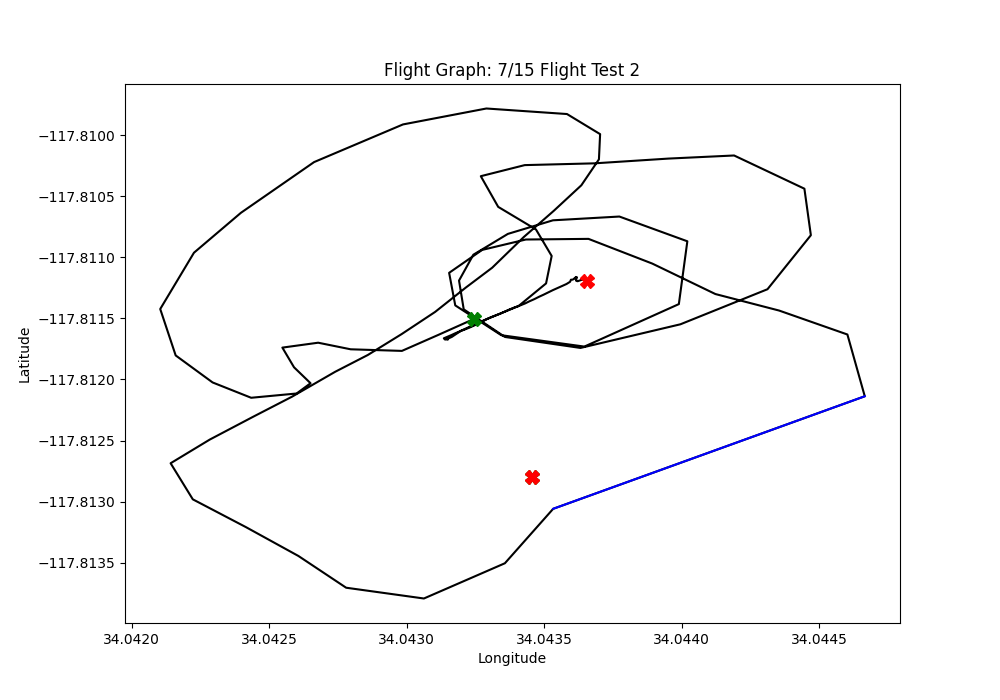
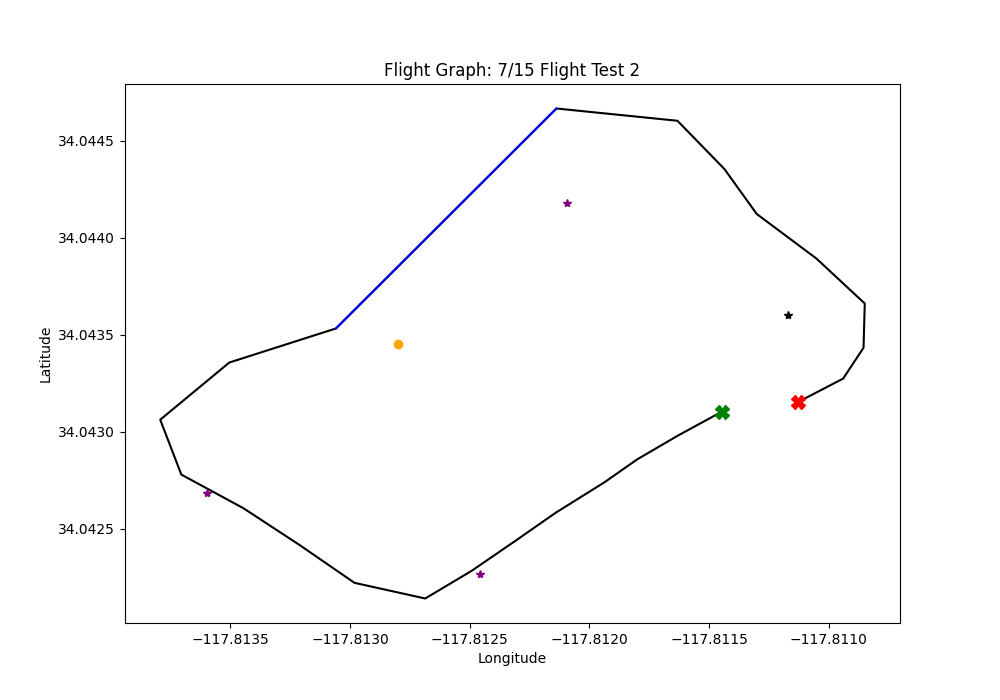
working png

diff --git a/Python GUI/REU_graph.py b/Python GUI/REU_graph.py
@@ -85,38 +85,38 @@ def main(graph_name: str, file_name: str, start: int, end: int):
         all_avoid_x.append(avoid_x)
         all_avoid_y.append(avoid_y)
 
-    ### GENERATE GRAPH IMAGE ###
-    # plt.figure(figsize=(10, 7)) # Window size
+    ## GENERATE GRAPH IMAGE ###
+    plt.figure(figsize=(10, 7)) # Window size
 
-    # # for current vehicle
-    # #plt.scatter(lattitude[1:], longitude[1:], color='black') # Creates scatter plot (dots)
-    # plt.plot(own_x[start:end], own_y[start:end], color='black', zorder=1) # Creates line for ownship
+    # for current vehicle
+    #plt.scatter(lattitude[1:], longitude[1:], color='black') # Creates scatter plot (dots)
+    plt.plot(own_x[start:end+1], own_y[start:end+1], color='black', zorder=1) # Creates line for ownship
 
-    # plt.plot(intr_x[start:end], intr_y[start:end], color='orange', zorder=1) # Creates line for intruder
+    plt.plot(intr_x[start:end], intr_y[start:end], color='orange', zorder=1) # Creates line for intruder
 
-    # for i in range(len(all_avoid_x)):
-    #     plt.plot(all_avoid_x[i], all_avoid_y[i], color = 'blue', zorder = 1) # creates line for each avoid maneuver
+    for i in range(len(all_avoid_x)):
+        plt.plot(all_avoid_x[i], all_avoid_y[i], color = 'blue', zorder = 1) # creates line for each avoid maneuver
 
 
-    ### GENERATE GIF ANIMATION FILE ###
-    # using https://www.youtube.com/watch?v=bNbN9yoEOdU
-    fig = plt.figure(figsize=(10, 7))
-    own_line, = plt.plot([], [], 'k-') # line for the ownship
-    intr_line, = plt.plot([], [], color='orange') # line for the intruder
-    # for avoid points
-    # avoid1_line, = plt.plot([], [], color='blue') # yuck!
-    # avoid2_line, = plt.plot([], [], color='blue') # yuck!
-    # cur_avoid = 0 # current avoid section (which array)
-    # cur_avoid_pt = 0 # current avoid point (which value)
-    cur_avoid = 0 # current avoid maneuver (first, second, etc)
-    cur_point = 0 # current point within the avoid maneuver
-    avoidance = {} # plt.plot lines stored in a dictionary, using cur_avoid as keys
+    # ### GENERATE GIF ANIMATION FILE ###
+    # # using https://www.youtube.com/watch?v=bNbN9yoEOdU
+    # fig = plt.figure(figsize=(10, 7))
+    # own_line, = plt.plot([], [], 'k-') # line for the ownship
+    # intr_line, = plt.plot([], [], color='orange') # line for the intruder
+    # # for avoid points
+    # # avoid1_line, = plt.plot([], [], color='blue') # yuck!
+    # # avoid2_line, = plt.plot([], [], color='blue') # yuck!
+    # # cur_avoid = 0 # current avoid section (which array)
+    # # cur_avoid_pt = 0 # current avoid point (which value)
+    # cur_avoid = 0 # current avoid maneuver (first, second, etc)
+    # cur_point = 0 # current point within the avoid maneuver
+    # avoidance = {} # plt.plot lines stored in a dictionary, using cur_avoid as keys
     
-    # graph window (may need to change +-)
-    plt.xlim(min(own_x)-0.0005, max(own_x)+0.0005)
-    plt.ylim(min(own_y)-0.0005, max(own_y)+0.0005)
+    # # graph window (may need to change +-)
+    # plt.xlim(min(own_x)-0.0005, max(own_x)+0.0005)
+    # plt.ylim(min(own_y)-0.0005, max(own_y)+0.0005)
     
-    ### gif code continued below (this order matters :P )
+    # ### gif code continued below (this order matters :P )
     
     
     plt.plot(own_x[start], own_y[start], color = 'green', marker = 'X', markersize = '10', zorder = 1) # Creates starting point for ownship
@@ -147,51 +147,51 @@ def main(graph_name: str, file_name: str, start: int, end: int):
     
 
     ### gif continued
-    metadata = dict(title = 'Movie', artist = 'Orange Joe')
-    #writer = PillowWriter(fps = 10, metadata=metadata) # for gif
-    writer = FFMpegWriter(fps = 10, metadata=metadata) # for mp4
+    # metadata = dict(title = 'Movie', artist = 'Orange Joe')
+    # #writer = PillowWriter(fps = 10, metadata=metadata) # for gif
+    # writer = FFMpegWriter(fps = 10, metadata=metadata) # for mp4
 
-    with writer.saving(fig, "Flight Graphs/7-15.2_flight_test_mp4.mp4", 100): # also change .gif or .mp4
-        for i in range(start, (start+len(own_x[start:end])+2)):
+    # with writer.saving(fig, "Flight Graphs/7-15.2_flight_test_mp4.mp4", 100): # also change .gif or .mp4
+    #     for i in range(start, (start+len(own_x[start:end])+2)):
             
-            # draw own line
-            own_line.set_data(own_x[start:i], own_y[start:i])
+    #         # draw own line
+    #         own_line.set_data(own_x[start:i], own_y[start:i])
             
-            # draw intruder line
-            intr_line.set_data(intr_x[start:i], intr_y[start:i])
+    #         # draw intruder line
+    #         intr_line.set_data(intr_x[start:i], intr_y[start:i])
 
-            # draw avoidance lines
-            if (cur_avoid < len(all_avoid_x)):
-                if (cur_point < len(all_avoid_x[cur_avoid]) and 
-                ((own_x[i] == all_avoid_x[cur_avoid][cur_point]) and (own_y[i] == all_avoid_y[cur_avoid][cur_point]))):
-                    # if cur_point is within the range of the avoid values
-                    # and the current x value equals the current avoid value
+    #         # draw avoidance lines
+    #         if (cur_avoid < len(all_avoid_x)):
+    #             if (cur_point < len(all_avoid_x[cur_avoid]) and 
+    #             ((own_x[i] == all_avoid_x[cur_avoid][cur_point]) and (own_y[i] == all_avoid_y[cur_avoid][cur_point]))):
+    #                 # if cur_point is within the range of the avoid values
+    #                 # and the current x value equals the current avoid value
                     
-                    try:
-                        # checks if avoidance[cur_avoid] exists
+    #                 try:
+    #                     # checks if avoidance[cur_avoid] exists
 
-                        if avoidance[cur_avoid]:
-                            # if so, do nothing
-                            pass
+    #                     if avoidance[cur_avoid]:
+    #                         # if so, do nothing
+    #                         pass
 
-                    except:
-                        # if not, create it
-                        avoidance[cur_avoid], = plt.plot([], [], color='blue')
+    #                 except:
+    #                     # if not, create it
+    #                     avoidance[cur_avoid], = plt.plot([], [], color='blue')
                     
-                    avoidance[cur_avoid].set_data(all_avoid_x[cur_avoid][0:cur_point+1], all_avoid_y[cur_avoid][0:cur_point+1])
-                    #print(all_avoid_x[cur_avoid][0:cur_point+1], all_avoid_y[cur_avoid][0:cur_point+1])
+    #                 avoidance[cur_avoid].set_data(all_avoid_x[cur_avoid][0:cur_point+1], all_avoid_y[cur_avoid][0:cur_point+1])
+    #                 #print(all_avoid_x[cur_avoid][0:cur_point+1], all_avoid_y[cur_avoid][0:cur_point+1])
 
-                    cur_point += 1
-                    #print(cur_avoid, cur_point)
-                elif cur_point == len(all_avoid_x[cur_avoid]):
-                    # else cur_point no longer points to an avoid value
+    #                 cur_point += 1
+    #                 #print(cur_avoid, cur_point)
+    #             elif cur_point == len(all_avoid_x[cur_avoid]):
+    #                 # else cur_point no longer points to an avoid value
 
-                    cur_avoid += 1 # move to next maneuver
-                    cur_point = 0 # reset cur_point
+    #                 cur_avoid += 1 # move to next maneuver
+    #                 cur_point = 0 # reset cur_point
             
-            writer.grab_frame()
+    #         writer.grab_frame()
 
-    #plt.show() # graph image
+    plt.show() # graph image
     #print(len(own_x))
 
 if __name__ == '__main__':
